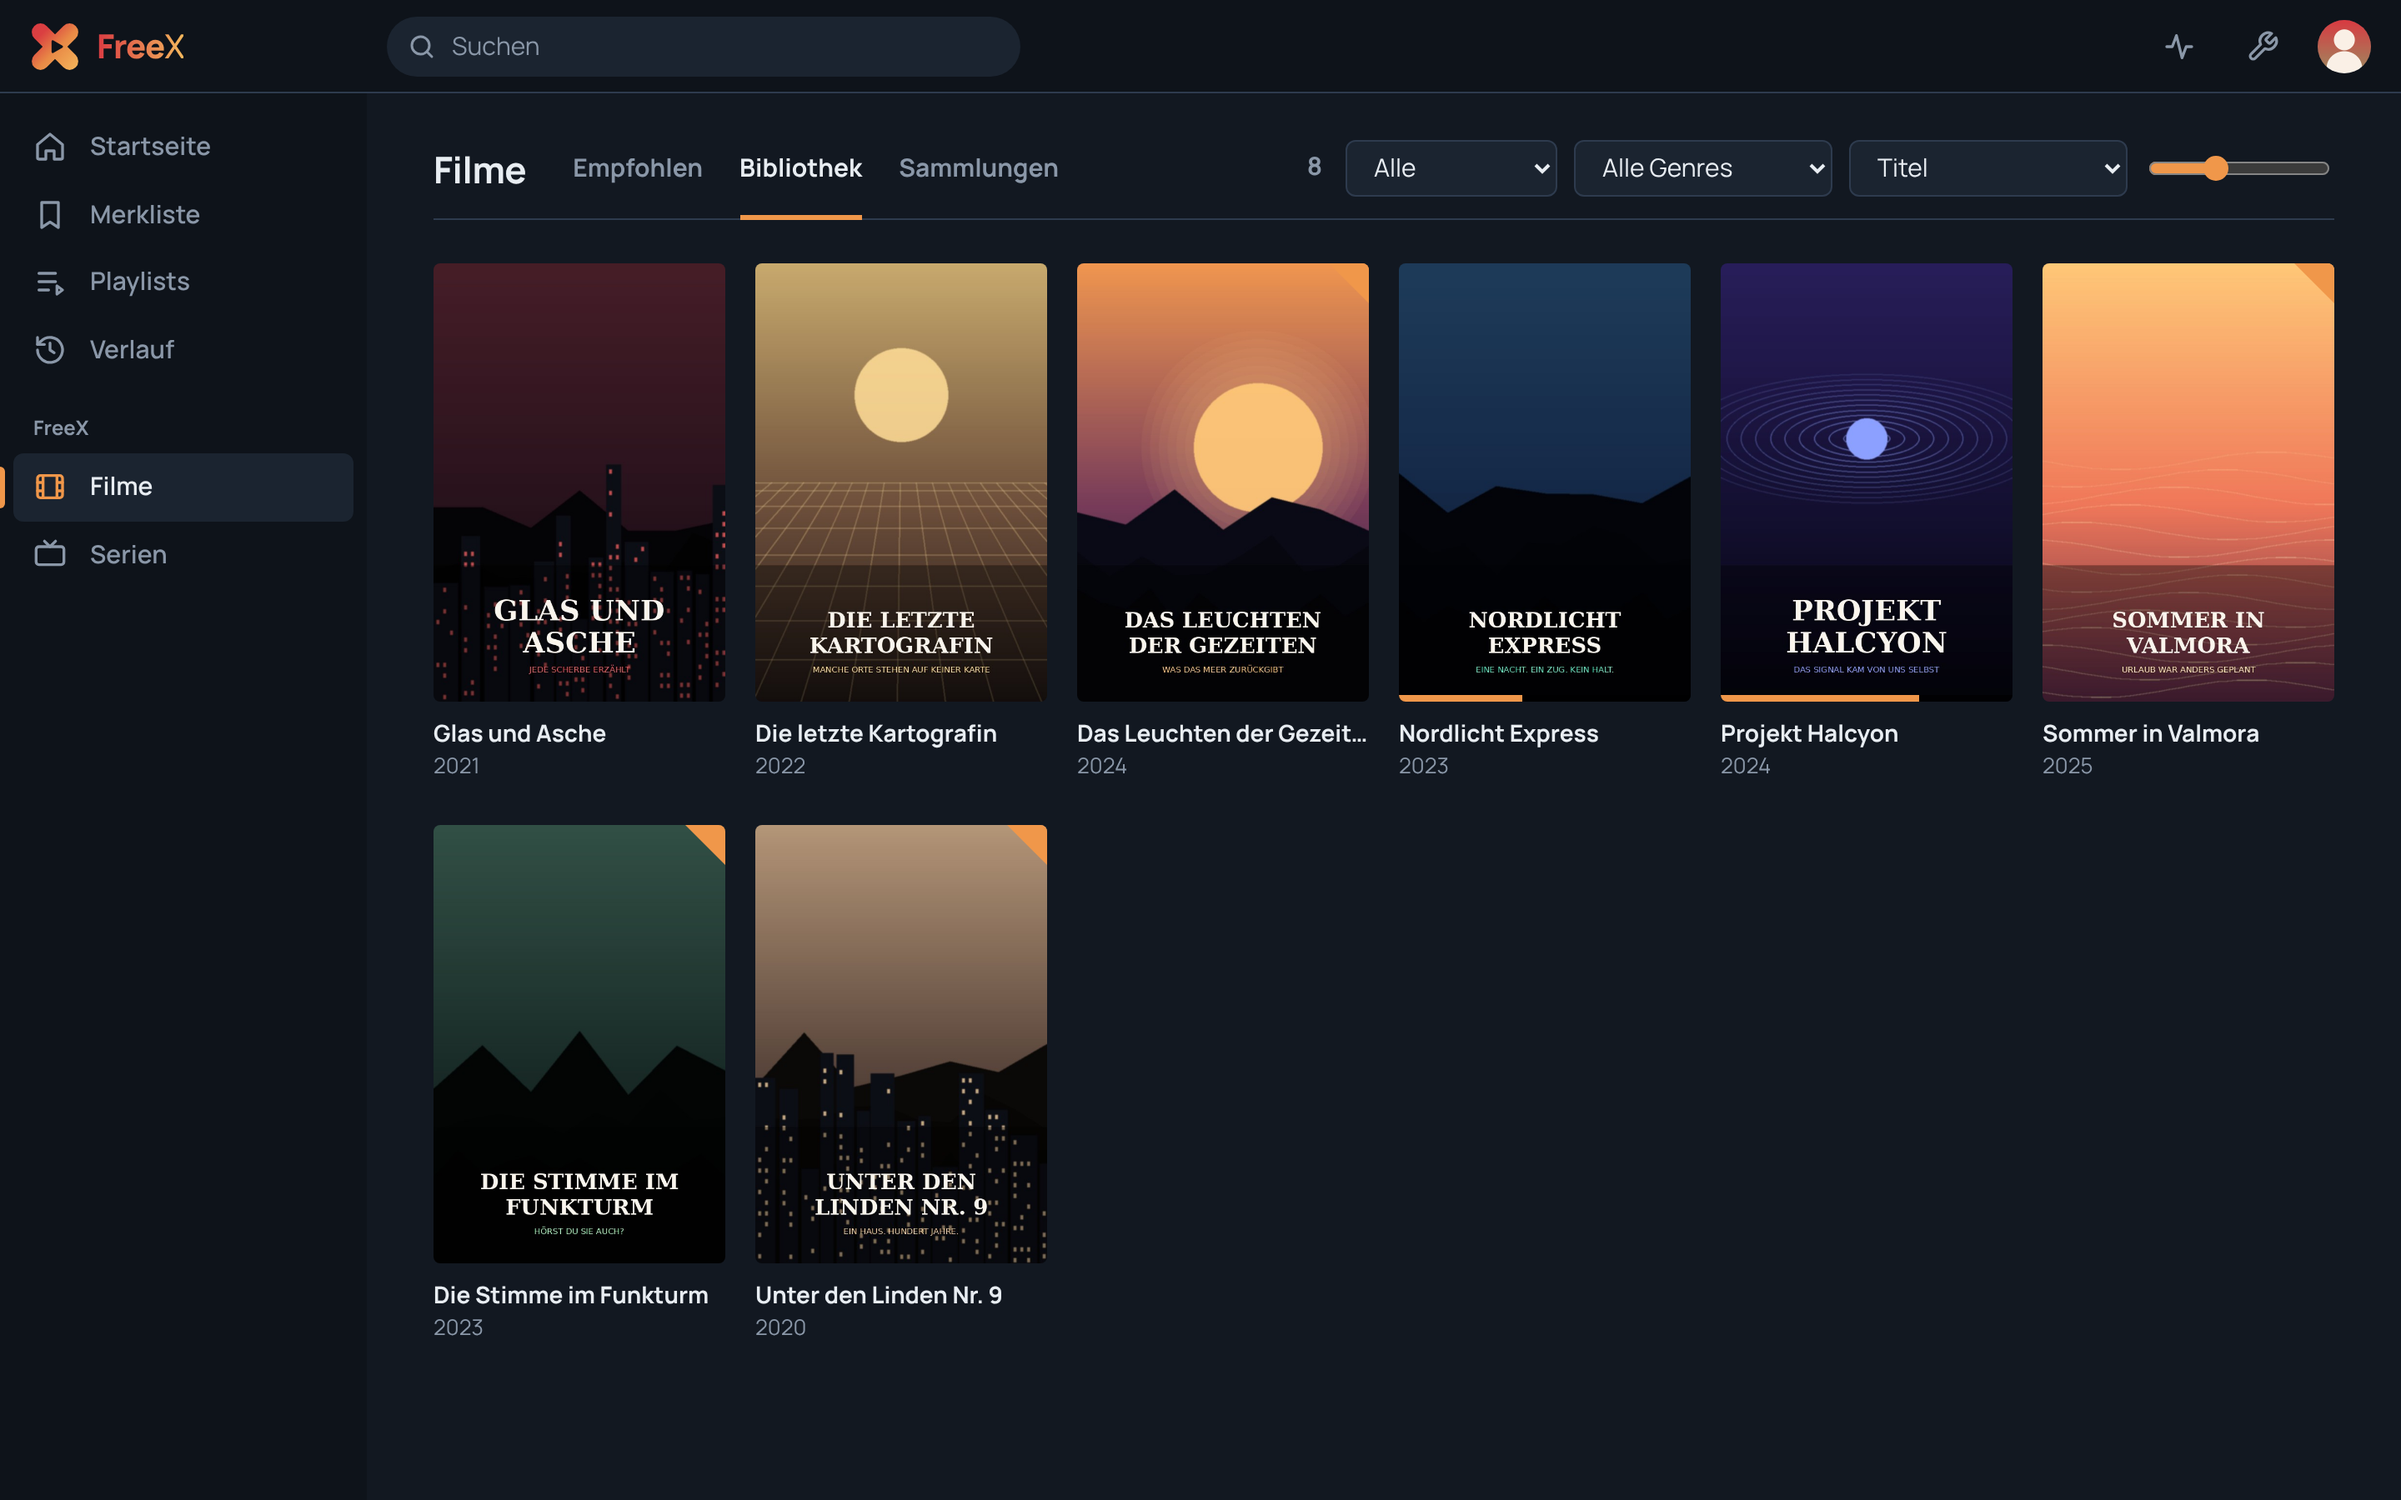
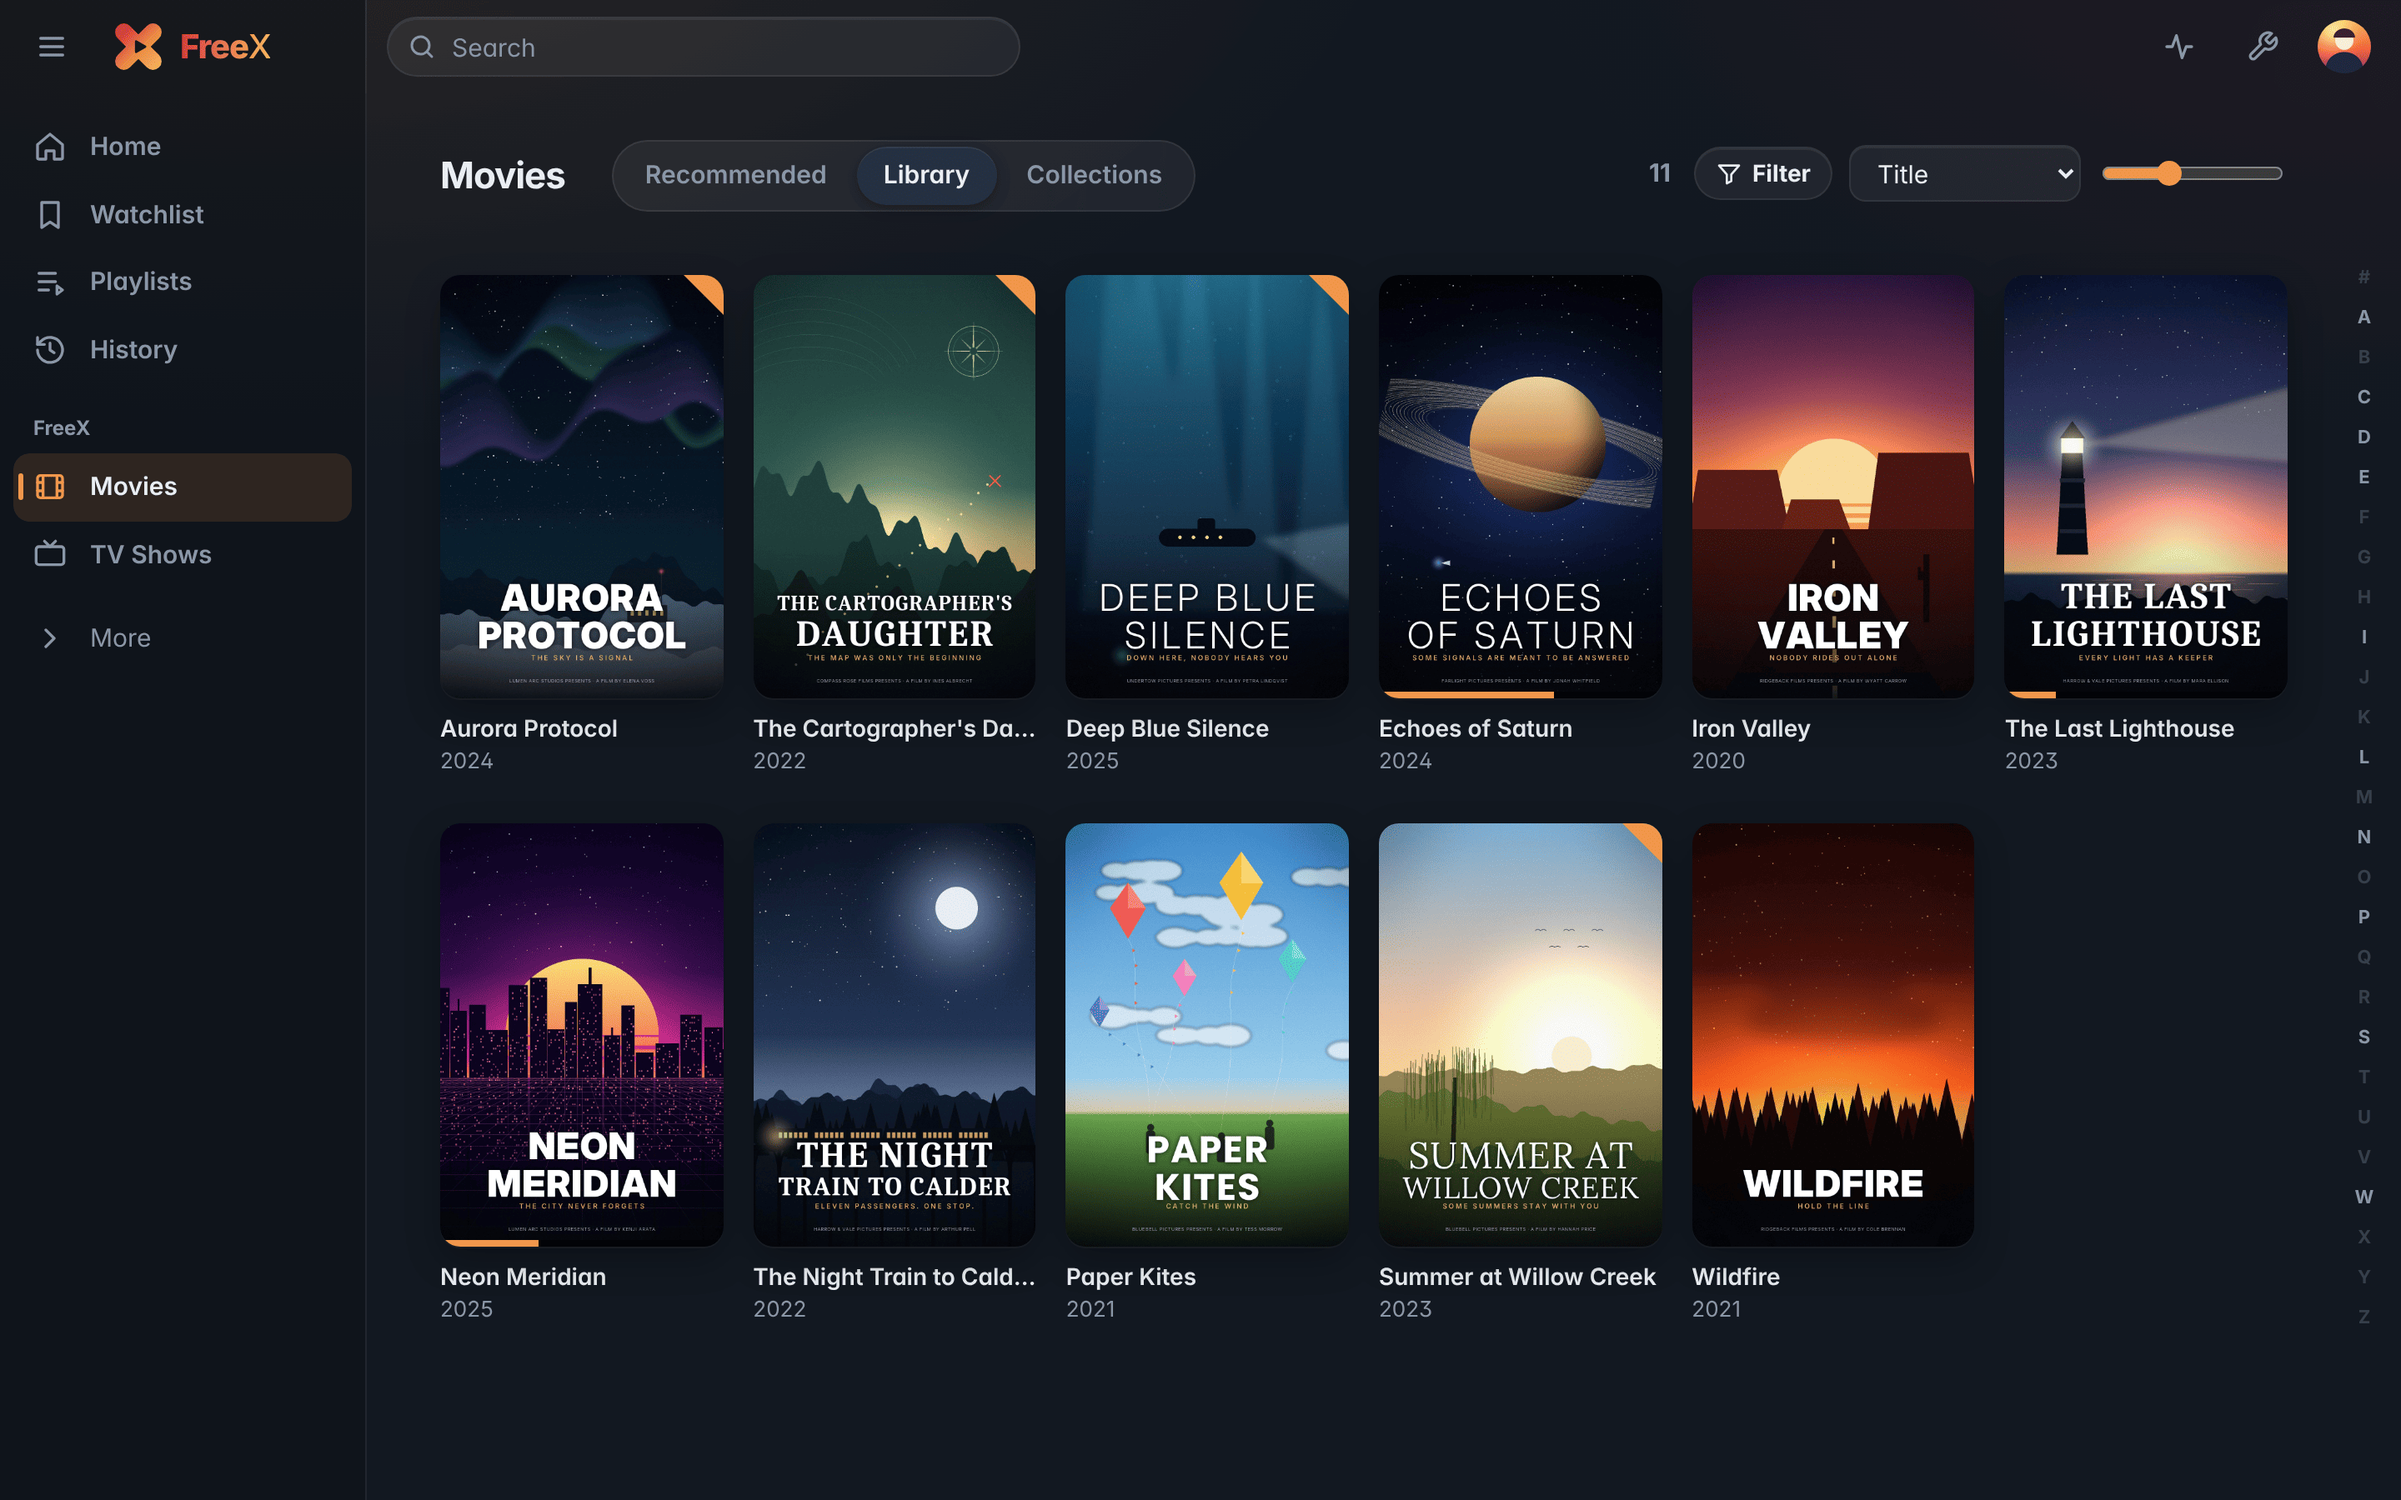
New screenshots; season names in the viewer's language; nfo entities
- README: four screenshots of the current design (home, library, movie,
  show) with a made-up English demo library: original poster and
  background artwork, fictional titles, people and studios
- seasons without a name of their own ("Season 2") are stored neutrally
  and shown in the viewer's language (the user's display language, or
  the metadata language of the server when the user follows the
  browser), in FreeX Web and the Jellyfin layer; they were always
  "Staffel 2", also in English
- .nfo: numeric character references (&#x27;, &#233;) are decoded
- media-library.md: the TMDB example is TOML, not the old YAML

Claude-Session: https://claude.ai/code/session_018u6dQm2Gt6etJj7mBRRKoM

diff --git a/src/media/nfo.rs b/src/media/nfo.rs
@@ -54,6 +54,8 @@ static UNIQUE_TVDB: LazyLock<Regex> =
     LazyLock::new(|| Regex::new(r#"(?i)<uniqueid[^>]*type="tvdb"[^>]*>(\d+)</uniqueid>"#).expect("valid pattern"));
 static IMDB_ID: LazyLock<Regex> = LazyLock::new(|| Regex::new(r"^tt\d{7,9}$").expect("valid pattern"));
 static TAGS: LazyLock<Regex> = LazyLock::new(|| Regex::new(r"<[^>]+>").expect("valid pattern"));
+/// Numeric character references: `&#39;`, `&#x27;`, `&#233;`.
+static NUMERIC: LazyLock<Regex> = LazyLock::new(|| Regex::new(r"&#(?:x([0-9a-fA-F]{1,6})|([0-9]{1,7}));").expect("valid pattern"));
 
 /// Applies the values found in the file to the item; missing elements leave fields unchanged.
 pub fn apply(nfo: &Path, item: &mut Item) {
@@ -170,15 +172,17 @@ fn decode(s: &str) -> String {
     if let Some(inner) = r.strip_prefix("<![CDATA[").and_then(|x| x.strip_suffix("]]>")) {
         r = inner;
     }
-    TAGS.replace_all(r, "")
-        .replace("&lt;", "<")
-        .replace("&gt;", ">")
-        .replace("&quot;", "\"")
-        .replace("&apos;", "'")
-        .replace("&#39;", "'")
-        .replace("&amp;", "&")
-        .trim()
-        .to_string()
+    let text = TAGS.replace_all(r, "");
+    let text = NUMERIC.replace_all(&text, |c: &regex::Captures| {
+        let code = match (c.get(1), c.get(2)) {
+            (Some(hex), _) => u32::from_str_radix(hex.as_str(), 16).ok(),
+            (_, Some(dec)) => dec.as_str().parse().ok(),
+            _ => None,
+        };
+        code.and_then(char::from_u32).map_or_else(|| c[0].to_string(), |ch| ch.to_string())
+    });
+    // &amp; last, so "&amp;lt;" stays "&lt;" as written.
+    text.replace("&lt;", "<").replace("&gt;", ">").replace("&quot;", "\"").replace("&apos;", "'").replace("&amp;", "&").trim().to_string()
 }
 
 #[cfg(test)]
@@ -203,5 +207,14 @@ mod tests {
         assert_eq!(it.rating, 8.8);
         assert_eq!(it.tmdb_hint, 27205);
         assert_eq!(it.imdb_hint, "tt1375666");
+    }
+
+    #[test]
+    fn decodes_entities() {
+        assert_eq!(decode("The Cartographer&#x27;s Daughter"), "The Cartographer's Daughter");
+        assert_eq!(decode("Am&#233;lie &amp; Nino"), "Amélie & Nino");
+        assert_eq!(decode("&quot;Quoted&quot; &apos;it&#39;s&apos;"), "\"Quoted\" 'it's'");
+        assert_eq!(decode("&amp;lt;b&amp;gt;"), "&lt;b&gt;");
+        assert_eq!(decode("&#xD800; stays"), "&#xD800; stays");
     }
 }

diff --git a/src/api/media.rs b/src/api/media.rs
@@ -45,11 +45,28 @@ pub(super) struct View<'a> {
     user: &'a User,
     progress: HashMap<String, Progress>,
     watchlist: HashSet<String>,
+    /// German default names ("Staffel 2"): the user's display language, or the server's content
+    /// language when the user follows the browser.
+    german: bool,
 }
 
 impl<'a> View<'a> {
     pub(super) fn new(app: &'a AppState, idx: &'a Index, user: &'a User) -> View<'a> {
-        View { app, idx, user, progress: app.db.progress_of(&user.id), watchlist: app.db.watchlist(&user.id).into_iter().collect() }
+        let german = match user.ui_language.as_str() {
+            "de" => true,
+            "" => app.config.tmdb.language.starts_with("de"),
+            _ => false,
+        };
+        View { app, idx, user, progress: app.db.progress_of(&user.id), watchlist: app.db.watchlist(&user.id).into_iter().collect(), german }
+    }
+
+    /// The title as this viewer sees it: default season names in their language.
+    pub(super) fn title_of(&self, it: &Item) -> String {
+        if it.kind == Kind::Season && crate::media::names::generic_season_title(&it.title, it.index) {
+            crate::media::names::season_label(it.index, self.german)
+        } else {
+            it.title.clone()
+        }
     }
 
     /// Whether the viewer may see an entry (library shared, age limit).
@@ -68,6 +85,9 @@ impl<'a> View<'a> {
     /// Item as JSON with watch state, show and season of episodes and episode counts.
     pub(super) fn decorate(&self, it: &Item, full: bool) -> Value {
         let mut m = it.to_public();
+        if it.kind == Kind::Season {
+            m["title"] = json!(self.title_of(it));
+        }
         m["artVersion"] = json!(art_version(self.idx, it));
         if !full && it.kind != Kind::Movie {
             m.as_object_mut().expect("object").remove("summary");

diff --git a/src/media/names.rs b/src/media/names.rs
@@ -241,6 +241,21 @@ pub fn sort_title(title: &str) -> String {
     lower
 }
 
+/// Whether a season title is only the default name ("Season 2", "Staffel 2"), shown in the viewer's
+/// language instead of as stored.
+pub fn generic_season_title(title: &str, index: i32) -> bool {
+    title.split_once(' ').is_some_and(|(w, n)| ["season", "staffel"].contains(&w.to_lowercase().as_str()) && n.parse() == Ok(index))
+}
+
+/// The default name of a season in English or German.
+pub fn season_label(index: i32, german: bool) -> String {
+    match (index, german) {
+        (0, _) => "Specials".to_string(),
+        (_, true) => format!("Staffel {index}"),
+        (_, false) => format!("Season {index}"),
+    }
+}
+
 #[cfg(test)]
 mod tests {
     use super::*;
@@ -248,6 +263,17 @@ mod tests {
     fn ty(s: &str) -> (String, i32) {
         let t = title_year(s);
         (t.title, t.year)
+    }
+
+    #[test]
+    fn season_names() {
+        assert!(generic_season_title("Staffel 2", 2));
+        assert!(generic_season_title("Season 2", 2));
+        assert!(!generic_season_title("Season 3", 2));
+        assert!(!generic_season_title("The Final Season", 2));
+        assert_eq!(season_label(2, true), "Staffel 2");
+        assert_eq!(season_label(2, false), "Season 2");
+        assert_eq!(season_label(0, true), "Specials");
     }
 
     #[test]

diff --git a/src/metadata/mod.rs b/src/metadata/mod.rs
@@ -770,11 +770,9 @@ impl Service {
             let sv = self.season(tmdb, id, season.index, &mut seasons_cache).await?;
             if let Some(sv) = &sv {
                 let mut title = if season.index == 0 { "Specials".to_string() } else { s(sv, "name") };
-                let generic = title.split_once(' ').is_some_and(|(w, n)| {
-                    ["season", "staffel"].contains(&w.to_lowercase().as_str()) && n.bytes().all(|b| b.is_ascii_digit())
-                });
-                if generic {
-                    title = format!("Staffel {}", season.index);
+                // "Season 2" and the like are shown in each viewer's language (see View).
+                if title.is_empty() || crate::media::names::generic_season_title(&title, season.index) {
+                    title = crate::media::names::season_label(season.index, false);
                 }
                 let sm = Metadata {
                     tmdb_id: sv["id"].as_i64().unwrap_or(0),

diff --git a/src/api/jellyfin/dto.rs b/src/api/jellyfin/dto.rs
@@ -179,7 +179,7 @@ impl<'a> Dto<'a> {
         let genres: Vec<&str> = it.genre_list().collect();
         let playable = it.kind.playable();
         let mut m = json!({
-            "Name": it.title,
+            "Name": self.view.title_of(it),
             "OriginalTitle": if it.original_title.is_empty() { Value::Null } else { json!(it.original_title) },
             "ServerId": self.server_id(),
             "Id": id,
@@ -271,7 +271,7 @@ impl<'a> Dto<'a> {
         {
             m["ParentIndexNumber"] = json!(season.index);
             m["SeasonId"] = json!(item_guid(&season.id));
-            m["SeasonName"] = json!(season.title);
+            m["SeasonName"] = json!(self.view.title_of(season));
         }
         if matches!(it.kind, Kind::Show | Kind::Season) {
             let (leaves, _) = self.view.count_leaves(it);

diff --git a/src/media/scanner.rs b/src/media/scanner.rs
@@ -556,7 +556,7 @@ impl Build {
             let mut s = Item::new(season_id.clone(), &self.library_id, Kind::Season);
             s.parent_id = Some(show_id.clone());
             s.index = season;
-            s.title = if season == 0 { "Specials".into() } else { format!("Staffel {season}") };
+            s.title = super::names::season_label(season, false);
             s.sort_title = format!("{season:04}");
             s.year = show_year;
             if folder_season >= 0 && show_dir.as_deref() != Some(dir) {

diff --git a/CHANGELOG.md b/CHANGELOG.md
@@ -19,6 +19,12 @@
   nothing is found, with their first words (`The Continental Aus der Welt von John Wick` → `The Continental`), whose
   results need a close title or the right year. Show folders named like season packs (`Show.S01.German…`) no
   longer keep `S01` in the title. Entries without a match are searched again right after the update
+- **Season names in the viewer's language:** seasons without a name of their own are shown as "Season 2" or
+  "Staffel 2" by the display language of the user (or, when the user follows the browser, the server's metadata
+  language), in FreeX Web and the Jellyfin apps; before, they were always "Staffel 2"
+- **`.nfo` files:** numeric character references such as `&#x27;` and `&#233;` are decoded, so titles like *The
+  Cartographer's Daughter* no longer show `&#x27;`
+- **Screenshots** in the README show the current design with a made-up English demo library
 - **APT repository:** the Jenkins build can publish the Debian package to an APT repository of your own
   (reprepro, `packaging/apt/`, stage *Publish* when `APT_REPO` is set), so servers install and update FreeX with
   `apt`. Every build gets its own, increasing package version (`0.21.0+202611110746.git7ccb57a`). See

diff --git a/README.md b/README.md
@@ -24,10 +24,14 @@ It is the core of **FreeX**, a family of apps around one server: the web client 
 there are apps for TVs, phones and tablets and the desktop (see [The FreeX family](#the-freex-family)).
 
 <p align="center">
-  <img src="docs/screenshots/library.png" alt="Movie library with poster grid" width="49%">
-  <img src="docs/screenshots/show.png" alt="Detail page of a TV show" width="49%">
+  <img src="docs/screenshots/home.png" alt="Home screen with Continue watching, Up next and Recently added" width="49%">
+  <img src="docs/screenshots/library.png" alt="Movie library as a poster grid with the A–Z bar" width="49%">
 </p>
-<p align="center"><sub>The titles and artwork in the screenshots are made up for the demo.</sub></p>
+<p align="center">
+  <img src="docs/screenshots/movie.png" alt="Detail page of a movie with cast, media info and resume" width="49%">
+  <img src="docs/screenshots/show.png" alt="Detail page of a TV show with its seasons" width="49%">
+</p>
+<p align="center"><sub>The movies, shows, people and artwork in the screenshots are made up for the demo.</sub></p>
 
 ## Highlights
 

diff --git a/docs/media-library.md b/docs/media-library.md
@@ -80,11 +80,11 @@ With a free API key from [themoviedb.org](https://www.themoviedb.org/settings/ap
 and descriptions, posters and backgrounds, episode titles and stills, cast with photos, directors and writers,
 studio or network, age ratings and trailers:
 
-```yaml
-tmdb:
-  apiKey: "your-key-or-read-access-token"
-  language: "de-DE"
-  region: "DE"
+```toml
+[tmdb]
+api_key = "your-key-or-read-access-token"
+language = "en-US"
+region = "US"
 ```
 
 After every scan, new or changed movies and shows are matched by title and year. The search also tries the title
